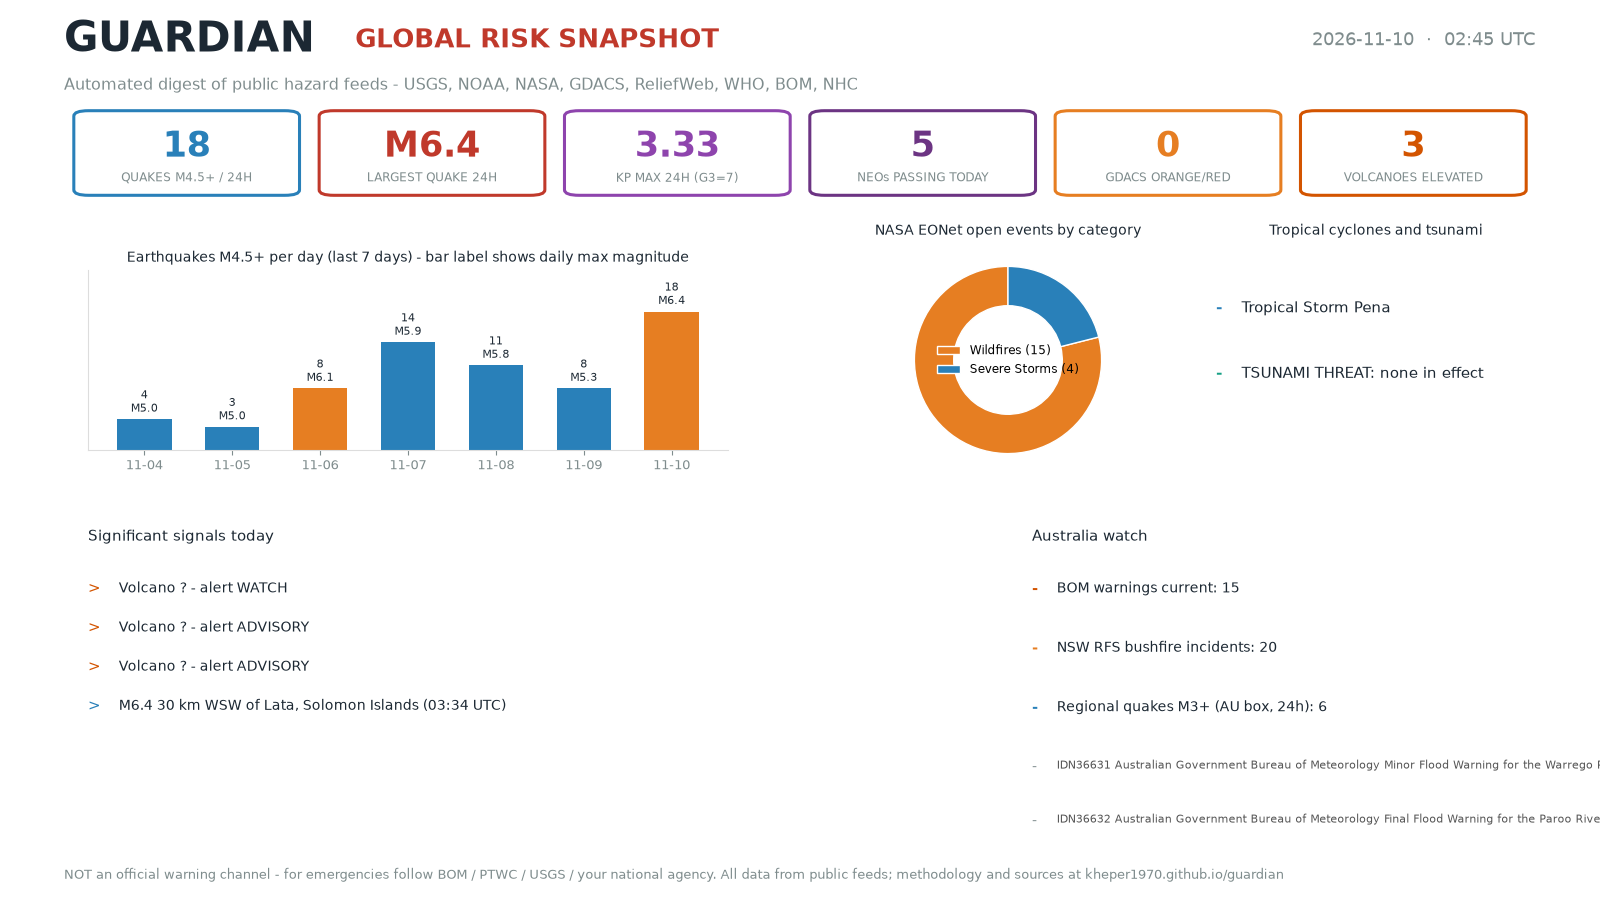
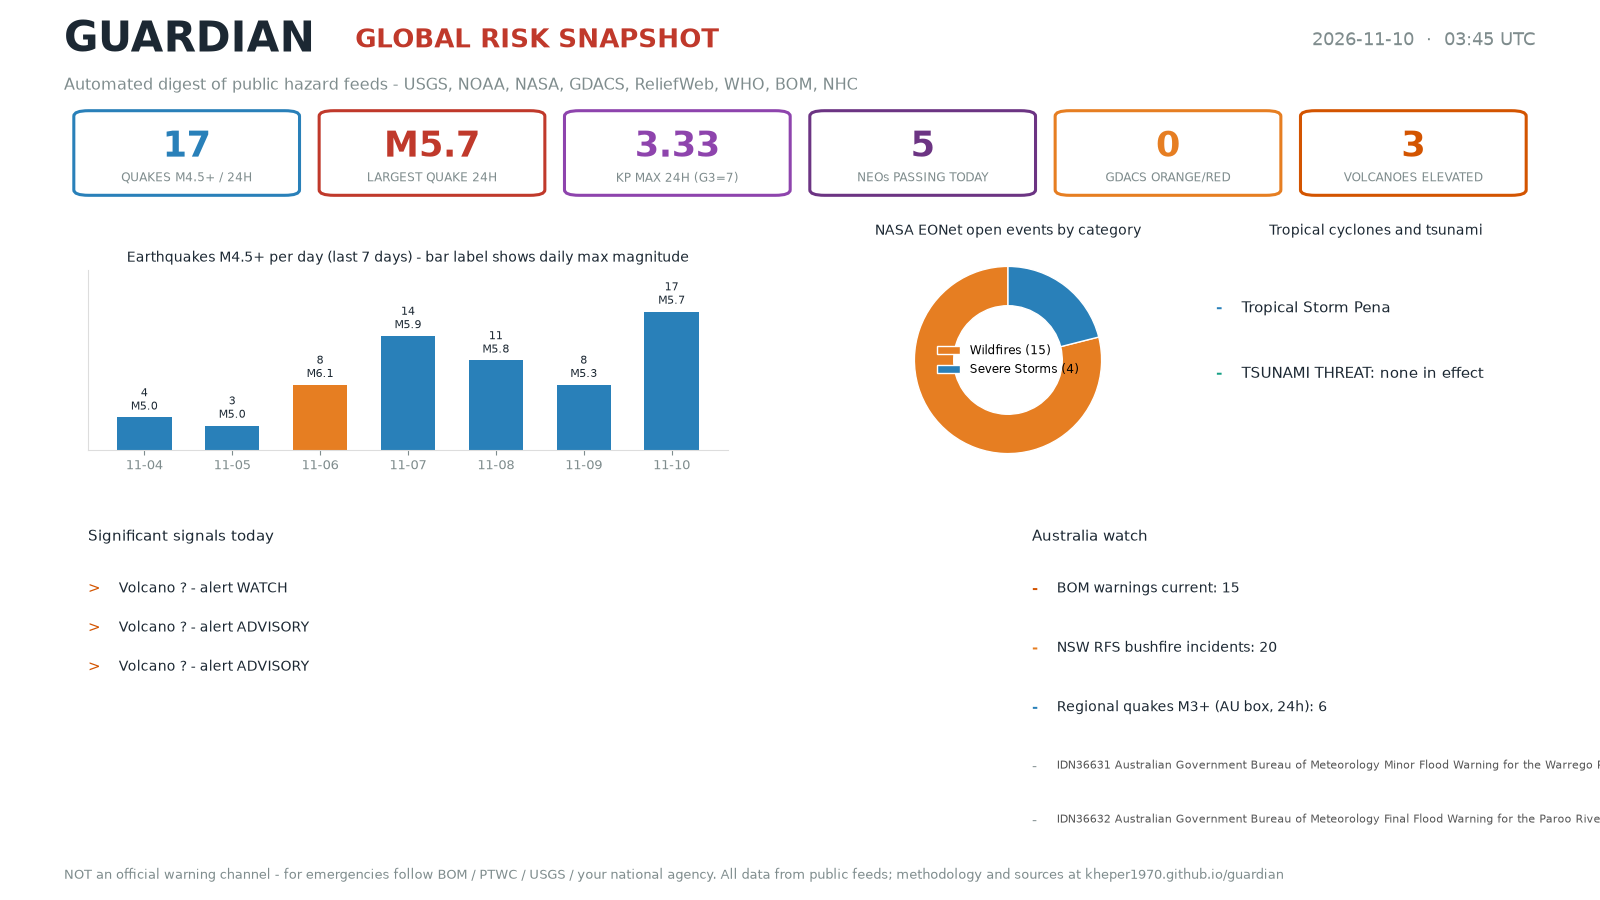
Automated update 2026-11-10T03:50Z

diff --git a/briefing/briefing_2026-11-10.html b/briefing/briefing_2026-11-10.html
@@ -92,7 +92,7 @@ or your national emergency agency.</p>
 - ...and 10 more</p>
 <h2>Space weather</h2>
 <ul>
-<li>Kp now: 2.0; max last 24h: 3.33 (storm threshold G3 = Kp 7.0)</li>
+<li>Kp now: 3.0; max last 24h: 3.33 (storm threshold G3 = Kp 7.0)</li>
 <li>SWPC alert K04W (2026-10-13 14:31): EXTENDED WARNING: Geomagnetic K-index of 4 expected</li>
 <li>SWPC alert A20F (2026-10-11 19:11): WATCH: Geomagnetic Storm Category G1 Predicted</li>
 <li>SWPC alert A30F (2026-10-11 17:02): CANCEL WATCH: Geomagnetic Storm Category G2 Predicted</li>
@@ -177,11 +177,11 @@ or your national emergency agency.</p>
 </ul>
 <h2>Tropical cyclones (NHC Atlantic + E/C Pacific)</h2>
 <ul>
-<li><strong>Tropical Storm Pena</strong> (central_pacific): latest: Tropical Storm Pena Public Advisory Number 13 (Mon, 09 Nov 2026)</li>
-<li>Tropical Storm Pena Public Advisory Number 13 https://www.nhc.noaa.gov/text/refresh/HFOTCPCP4+shtml/092043.shtml</li>
-<li>Tropical Storm Pena Forecast Advisory Number 13 https://www.nhc.noaa.gov/text/refresh/HFOTCMCP4+shtml/092042.shtml</li>
-<li>Tropical Storm Pena Forecast Discussion Number 13 https://www.nhc.noaa.gov/text/refresh/HFOTCDCP4+shtml/092044.shtml</li>
-<li>Tropical Storm Pena Wind Speed Probabilities Number 13 https://www.nhc.noaa.gov/text/refresh/HFOPWSCP4+shtml/092043.shtml</li>
+<li><strong>Tropical Storm Pena</strong> (central_pacific): latest: Tropical Storm Pena Public Advisory Number 14 (Tue, 10 Nov 2026)</li>
+<li>Tropical Storm Pena Public Advisory Number 14 https://www.nhc.noaa.gov/text/refresh/HFOTCPCP4+shtml/100231.shtml</li>
+<li>Tropical Storm Pena Forecast Advisory Number 14 https://www.nhc.noaa.gov/text/refresh/HFOTCMCP4+shtml/100230.shtml</li>
+<li>Tropical Storm Pena Forecast Discussion Number 14 https://www.nhc.noaa.gov/text/refresh/HFOTCDCP4+shtml/100231.shtml</li>
+<li>Tropical Storm Pena Wind Speed Probabilities Number 14 https://www.nhc.noaa.gov/text/refresh/HFOPWSCP4+shtml/100231.shtml</li>
 </ul>
 <h2>Nuclear &amp; radiological watch (Google News: IAEA/incident keywords)</h2>
 <ul>
@@ -189,8 +189,8 @@ or your national emergency agency.</p>
 <li>IAEA Convenes National Nuclear Emergency Competent Authorities as Early Notification and Assistance Conventions Mark 40 Years - International Atomic Energy Agency (Mon, 08 Jun 2026)</li>
 <li>IAEA Response and Assistance Network (RANET) Capacity Building Centre’s Workshop on Monitoring during a Nuclear or Radiological Emergency held in Fukushima - Ministry of Foreign Affairs of Japan (Fri, 09 Oct 2026)</li>
 <li>IAEA and Japan Strengthen Emergency Preparedness in Fukushima - International Atomic Energy Agency (Wed, 15 Apr 2026)</li>
+<li>Building a Safer World: 20 Years of the Incident and Emergency Centre | IAEA - International Atomic Energy Agency (Mon, 29 Dec 2025)</li>
 <li>IAEA Database: About 55% of Nuclear and Other Radioactive Material Thefts Since 1993 Occurred During Transport - International Atomic Energy Agency (Mon, 23 Mar 2026)</li>
-<li>Protecting Food and Agriculture in Nuclear and Radiological Emergencies | IAEA - International Atomic Energy Agency (Tue, 09 Dec 2025)</li>
 </ul>
 <h2>Food security watch (Google News: famine keywords)</h2>
 <ul>
@@ -198,30 +198,28 @@ or your national emergency agency.</p>
 <li>UK households urged to prepare for emergencies and ‘attacks’. Here’s what to buy - The Independent (Mon, 09 Nov 2026)</li>
 <li>Somalia - UN World Food Programme (Mon, 24 Aug 2026)</li>
 <li>FAO's Global Emergency and Resilience Appeal 2026 | FAO Emergency and Resilience - Food and Agriculture Organization (Thu, 08 Oct 2026)</li>
-<li>Can emergency cash buy food security? - UNU | United Nations University (Wed, 08 Jul 2026)</li>
 <li>Mali - Key Message Update: Food insecurity deteriorates to Emergency (IPC Phase 4) in Kidal amid severe conflict, May - September 2026 - ReliefWeb (Thu, 11 Jun 2026)</li>
+<li>WFP at a Glance - UN World Food Programme (Tue, 21 Jul 2026)</li>
 </ul>
 <h2>Famine watch (UN News + ReliefWeb keywords)</h2>
 <ul>
-<li>[UN News] Children at risk as war zone attacks on water and sanitation more than triple (Thu, 05 Nov 2026)</li>
 <li>[ReliefWeb] Mozambique Food Security Outlook: Crisis expected to emerge in November as food stocks decline in the center and south, October 2026 - May 2027 (Tue, 10 Nov 2026)</li>
 <li>[ReliefWeb] Colombia - Food Security Outlook Update (October 2026 - May 2027): Expansion of areas in Crisis (IPC Phase 3) driven by conflict and weather shocks (Tue, 10 Nov 2026)</li>
 <li>[ReliefWeb] oPt: At least 5 dead, 26,000 households flooded as people in Gaza face fourth winter in tents (Mon, 09 Nov 2026)</li>
 </ul>
 <h2>Armed conflict watch (UN News + ReliefWeb keywords)</h2>
 <ul>
-<li>[UN News] World News in Brief: Children killed in Myanmar strike, new violence flares in Mozambique, an Internet affordability milestone (Tue, 03 Nov 2026)</li>
 <li>[ReliefWeb] Kenya Population Influx - Moyale/Mandera: DREF Operation (MDRKE075) (Tue, 10 Nov 2026)</li>
 <li>[ReliefWeb] oPt: At least 5 dead, 26,000 households flooded as people in Gaza face fourth winter in tents (Mon, 09 Nov 2026)</li>
 </ul>
 <h2>Australia watch (ABC News, NSW RFS, USGS AU quakes, GNews AU, health.gov.au)</h2>
 <ul>
+<li>Rogue AI accessed Medicare data but broke no laws (Tue, 10 Nov 2026)</li>
+<li>'Overwhelmed' and 'exhausted' mums plead for more postpartum support (Tue, 10 Nov 2026)</li>
+<li>Mother accused of choking child remanded in custody in Coober Pedy (Tue, 10 Nov 2026)</li>
 <li>What to know about fuel prices after a midterm elections oil price drop (Tue, 10 Nov 2026)</li>
 <li>Russell Brand's ex Jemima Goldsmith accuses him of 'violence and abuse' (Tue, 10 Nov 2026)</li>
-<li>Liquidators probe multi-million-dollar sale of collapsed Mundella assets (Tue, 10 Nov 2026)</li>
-<li>Woolies plans facial recognition technology trial in two Canberra supermarkets (Tue, 10 Nov 2026)</li>
-<li>Clive Palmer says dilapidated luxury resort will reopen after decade in mothballs (Tue, 10 Nov 2026)</li>
-<li>NSW RFS current incidents: 18 (0 at Warning level)</li>
+<li>NSW RFS current incidents: 20 (0 at Warning level)</li>
 <li>AU-region quakes (24h): 6, max M4.8</li>
 <li>M3.5 9 km NE of Korumburra, Australia</li>
 <li>M4.7 98 km S of Encounter Bay, Australia</li>
@@ -233,9 +231,9 @@ or your national emergency agency.</p>
 <li>WA Community Urged to Join Ready Ahead of Bushfire Season - Mirage News (Mon, 09 Nov 2026)</li>
 <li>Chinese sites flood with Melbourne warning - News.com.au (Mon, 09 Nov 2026)</li>
 <li>‘Worst defence decision ever’? AUKUS inquiry gets China wrong - The Strategist | ASPI's analysis and commentary site (Tue, 10 Nov 2026)</li>
-<li>Australia’s strategic partnership with the Philippines: The rising defence relationship - Australian Strategic Policy Institute (Mon, 09 Nov 2026)</li>
-<li>Australia needs serious discussion on AUKUS. This inquiry didn’t deliver it - UNSW Sydney (Mon, 09 Nov 2026)</li>
 <li>Australian security guard who fought for Russia against Ukraine goes missing - ABC News &amp; Headlines – Australian Broadcasting Corporation (Mon, 09 Nov 2026)</li>
+<li>Australia needs serious discussion on AUKUS. This inquiry didn’t deliver it - UNSW Sydney (Mon, 09 Nov 2026)</li>
+<li>Australia’s strategic partnership with the Philippines: The rising defence relationship - Australian Strategic Policy Institute (Mon, 09 Nov 2026)</li>
 <li>health.gov.au:</li>
 <li>Medicare Services campaign launches to help Australians access the right care at the right time</li>
 <li>More choice for older people paying for residential aged care</li>

diff --git a/index.html b/index.html
@@ -96,8 +96,8 @@ The setting is reviewed annually (each January) by its Science and Security Boar
 <a href="https://thebulletin.org/doomsday-clock/">thebulletin.org</a>.
 Clock artwork © Bulletin of the Atomic Scientists; used with attribution.</p>
 </div></div></div>
-<div class="statgrid"><div class="stat"><div class="n">18</div><div class="l">quakes M4.5+ / 24h</div></div><div class="stat"><div class="n">M6.4</div><div class="l">largest quake</div></div><div class="stat"><div class="n">3.33</div><div class="l">Kp max 24h</div></div><div class="stat"><div class="n">5</div><div class="l">NEOs today</div></div><div class="stat"><div class="n">0</div><div class="l">GDACS orange/red</div></div><div class="stat"><div class="n">3</div><div class="l">volcanoes elevated</div></div></div>
-<p style="color:#666666;font-size:.9rem">Snapshot taken 2026-11-10T02:45:01.944838+00:00 UTC.
+<div class="statgrid"><div class="stat"><div class="n">17</div><div class="l">quakes M4.5+ / 24h</div></div><div class="stat"><div class="n">M5.7</div><div class="l">largest quake</div></div><div class="stat"><div class="n">3.33</div><div class="l">Kp max 24h</div></div><div class="stat"><div class="n">5</div><div class="l">NEOs today</div></div><div class="stat"><div class="n">0</div><div class="l">GDACS orange/red</div></div><div class="stat"><div class="n">3</div><div class="l">volcanoes elevated</div></div></div>
+<p style="color:#666666;font-size:.9rem">Snapshot taken 2026-11-10T03:45:02.005300+00:00 UTC.
 Open the <a href="briefing/briefing_2026-11-10.html">full briefing</a> for details and sources.</p>
 </div>
 <div class="card"><h2 style="margin-top:0">Daily infographic</h2>

diff --git a/briefing/briefing_2026-11-10.md b/briefing/briefing_2026-11-10.md
@@ -15,7 +15,7 @@ Count: 18
 - ...and 10 more
 
 ## Space weather
-- Kp now: 2.0; max last 24h: 3.33 (storm threshold G3 = Kp 7.0)
+- Kp now: 3.0; max last 24h: 3.33 (storm threshold G3 = Kp 7.0)
 - SWPC alert K04W (2026-10-13 14:31): EXTENDED WARNING: Geomagnetic K-index of 4 expected
 - SWPC alert A20F (2026-10-11 19:11): WATCH: Geomagnetic Storm Category G1 Predicted
 - SWPC alert A30F (2026-10-11 17:02): CANCEL WATCH: Geomagnetic Storm Category G2 Predicted
@@ -96,46 +96,44 @@ None. No orange/red multi-hazard alerts active.
 - [Wildfires] Prescribed Fire 3R RX - DRUMMOND MP, Stevens, Washington (last update 2026-10-28)
 
 ## Tropical cyclones (NHC Atlantic + E/C Pacific)
-- **Tropical Storm Pena** (central_pacific): latest: Tropical Storm Pena Public Advisory Number 13 (Mon, 09 Nov 2026)
-  - Tropical Storm Pena Public Advisory Number 13 https://www.nhc.noaa.gov/text/refresh/HFOTCPCP4+shtml/092043.shtml
-  - Tropical Storm Pena Forecast Advisory Number 13 https://www.nhc.noaa.gov/text/refresh/HFOTCMCP4+shtml/092042.shtml
-  - Tropical Storm Pena Forecast Discussion Number 13 https://www.nhc.noaa.gov/text/refresh/HFOTCDCP4+shtml/092044.shtml
-  - Tropical Storm Pena Wind Speed Probabilities Number 13 https://www.nhc.noaa.gov/text/refresh/HFOPWSCP4+shtml/092043.shtml
+- **Tropical Storm Pena** (central_pacific): latest: Tropical Storm Pena Public Advisory Number 14 (Tue, 10 Nov 2026)
+  - Tropical Storm Pena Public Advisory Number 14 https://www.nhc.noaa.gov/text/refresh/HFOTCPCP4+shtml/100231.shtml
+  - Tropical Storm Pena Forecast Advisory Number 14 https://www.nhc.noaa.gov/text/refresh/HFOTCMCP4+shtml/100230.shtml
+  - Tropical Storm Pena Forecast Discussion Number 14 https://www.nhc.noaa.gov/text/refresh/HFOTCDCP4+shtml/100231.shtml
+  - Tropical Storm Pena Wind Speed Probabilities Number 14 https://www.nhc.noaa.gov/text/refresh/HFOPWSCP4+shtml/100231.shtml
 
 ## Nuclear & radiological watch (Google News: IAEA/incident keywords)
 - IAEA Helps Latin American and the Caribbean Countries Prepare for Nuclear and Radiological Emergencies Coinciding with Other Crises - International Atomic Energy Agency (Wed, 08 Jul 2026)
 - IAEA Convenes National Nuclear Emergency Competent Authorities as Early Notification and Assistance Conventions Mark 40 Years - International Atomic Energy Agency (Mon, 08 Jun 2026)
 - IAEA Response and Assistance Network (RANET) Capacity Building Centre’s Workshop on Monitoring during a Nuclear or Radiological Emergency held in Fukushima - Ministry of Foreign Affairs of Japan (Fri, 09 Oct 2026)
 - IAEA and Japan Strengthen Emergency Preparedness in Fukushima - International Atomic Energy Agency (Wed, 15 Apr 2026)
+- Building a Safer World: 20 Years of the Incident and Emergency Centre | IAEA - International Atomic Energy Agency (Mon, 29 Dec 2025)
 - IAEA Database: About 55% of Nuclear and Other Radioactive Material Thefts Since 1993 Occurred During Transport - International Atomic Energy Agency (Mon, 23 Mar 2026)
-- Protecting Food and Agriculture in Nuclear and Radiological Emergencies | IAEA - International Atomic Energy Agency (Tue, 09 Dec 2025)
 
 ## Food security watch (Google News: famine keywords)
 - Africa: At COP31, World Food Programme Urges Use of Innovative Finance to Prevent Climate Shocks From Becoming Hunger Emergencies - allAfrica.com (Mon, 09 Nov 2026)
 - UK households urged to prepare for emergencies and ‘attacks’. Here’s what to buy - The Independent (Mon, 09 Nov 2026)
 - Somalia - UN World Food Programme (Mon, 24 Aug 2026)
 - FAO's Global Emergency and Resilience Appeal 2026 | FAO Emergency and Resilience - Food and Agriculture Organization (Thu, 08 Oct 2026)
-- Can emergency cash buy food security? - UNU | United Nations University (Wed, 08 Jul 2026)
 - Mali - Key Message Update: Food insecurity deteriorates to Emergency (IPC Phase 4) in Kidal amid severe conflict, May - September 2026 - ReliefWeb (Thu, 11 Jun 2026)
+- WFP at a Glance - UN World Food Programme (Tue, 21 Jul 2026)
 
 ## Famine watch (UN News + ReliefWeb keywords)
-- [UN News] Children at risk as war zone attacks on water and sanitation more than triple (Thu, 05 Nov 2026)
 - [ReliefWeb] Mozambique Food Security Outlook: Crisis expected to emerge in November as food stocks decline in the center and south, October 2026 - May 2027 (Tue, 10 Nov 2026)
 - [ReliefWeb] Colombia - Food Security Outlook Update (October 2026 - May 2027): Expansion of areas in Crisis (IPC Phase 3) driven by conflict and weather shocks (Tue, 10 Nov 2026)
 - [ReliefWeb] oPt: At least 5 dead, 26,000 households flooded as people in Gaza face fourth winter in tents (Mon, 09 Nov 2026)
 
 ## Armed conflict watch (UN News + ReliefWeb keywords)
-- [UN News] World News in Brief: Children killed in Myanmar strike, new violence flares in Mozambique, an Internet affordability milestone (Tue, 03 Nov 2026)
 - [ReliefWeb] Kenya Population Influx - Moyale/Mandera: DREF Operation (MDRKE075) (Tue, 10 Nov 2026)
 - [ReliefWeb] oPt: At least 5 dead, 26,000 households flooded as people in Gaza face fourth winter in tents (Mon, 09 Nov 2026)
 
 ## Australia watch (ABC News, NSW RFS, USGS AU quakes, GNews AU, health.gov.au)
+- Rogue AI accessed Medicare data but broke no laws (Tue, 10 Nov 2026)
+- 'Overwhelmed' and 'exhausted' mums plead for more postpartum support (Tue, 10 Nov 2026)
+- Mother accused of choking child remanded in custody in Coober Pedy (Tue, 10 Nov 2026)
 - What to know about fuel prices after a midterm elections oil price drop (Tue, 10 Nov 2026)
 - Russell Brand's ex Jemima Goldsmith accuses him of 'violence and abuse' (Tue, 10 Nov 2026)
-- Liquidators probe multi-million-dollar sale of collapsed Mundella assets (Tue, 10 Nov 2026)
-- Woolies plans facial recognition technology trial in two Canberra supermarkets (Tue, 10 Nov 2026)
-- Clive Palmer says dilapidated luxury resort will reopen after decade in mothballs (Tue, 10 Nov 2026)
-- NSW RFS current incidents: 18 (0 at Warning level)
+- NSW RFS current incidents: 20 (0 at Warning level)
 - AU-region quakes (24h): 6, max M4.8
   - M3.5 9 km NE of Korumburra, Australia
   - M4.7 98 km S of Encounter Bay, Australia
@@ -147,9 +145,9 @@ None. No orange/red multi-hazard alerts active.
   - WA Community Urged to Join Ready Ahead of Bushfire Season - Mirage News (Mon, 09 Nov 2026)
   - Chinese sites flood with Melbourne warning - News.com.au (Mon, 09 Nov 2026)
   - ‘Worst defence decision ever’? AUKUS inquiry gets China wrong - The Strategist | ASPI's analysis and commentary site (Tue, 10 Nov 2026)
-  - Australia’s strategic partnership with the Philippines: The rising defence relationship - Australian Strategic Policy Institute (Mon, 09 Nov 2026)
-  - Australia needs serious discussion on AUKUS. This inquiry didn’t deliver it - UNSW Sydney (Mon, 09 Nov 2026)
   - Australian security guard who fought for Russia against Ukraine goes missing - ABC News &amp; Headlines – Australian Broadcasting Corporation (Mon, 09 Nov 2026)
+  - Australia needs serious discussion on AUKUS. This inquiry didn’t deliver it - UNSW Sydney (Mon, 09 Nov 2026)
+  - Australia’s strategic partnership with the Philippines: The rising defence relationship - Australian Strategic Policy Institute (Mon, 09 Nov 2026)
 - health.gov.au:
   - Medicare Services campaign launches to help Australians access the right care at the right time
   - More choice for older people paying for residential aged care
